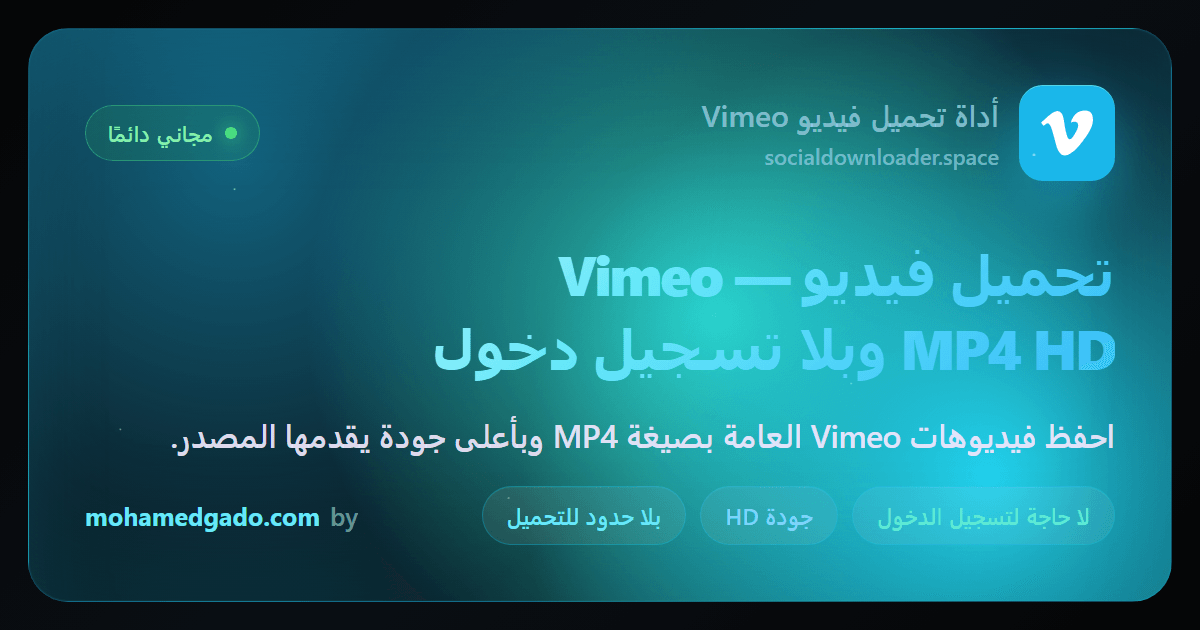
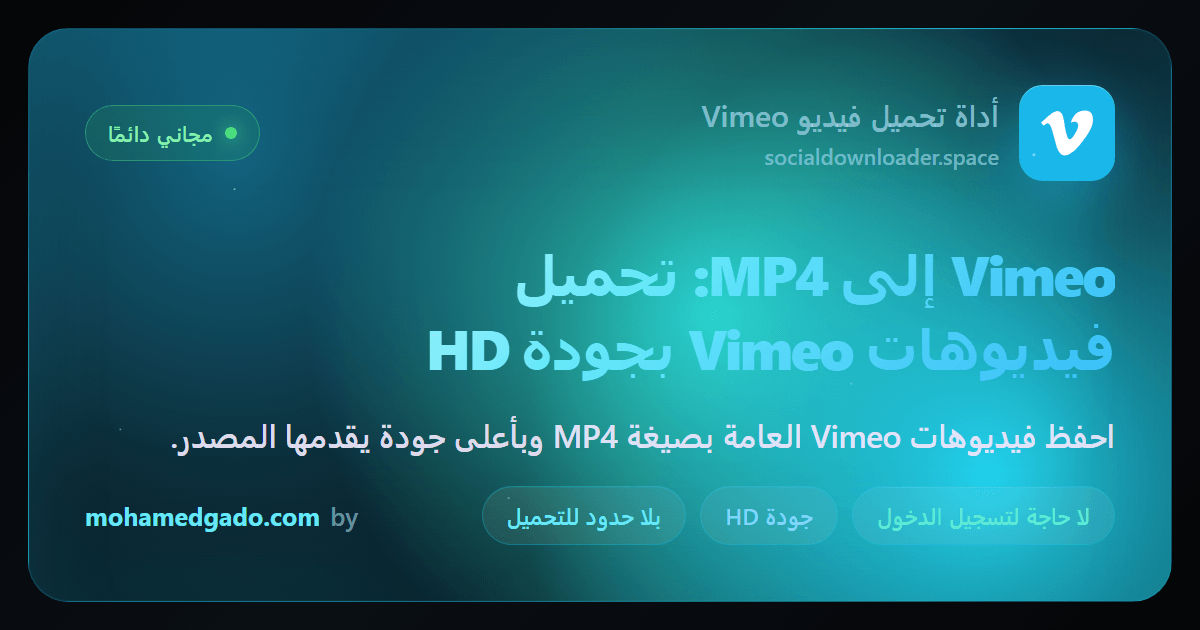
fix(ux): bigger phone tap targets, top-aligned feature cards, template tokens as code; seo: Vimeo-to-MP4 and Spanish Reels intent
- Format/Quality/"Get it as" pills and the Paste chip are taller on phones;
  their labels and the history meta text pass contrast.
- Feature card buttons pin content to the top so columns line up.
- {date}-style filename tokens render as LTR code chips on /pro and Support.
- /vimeo-downloader answers "Vimeo link to MP4" in 5 languages, with claims
  matching the extractor; /es/facebook-downloader leads with "descargar reels".

Changed region(s): [[0.3392, 0.5127, 0.9558, 0.6032], [0.4317, 0.3921, 0.925, 0.4825]]

diff --git a/src/components/DownloaderApp.tsx b/src/components/DownloaderApp.tsx
@@ -2803,7 +2803,7 @@ export function DownloaderApp() {
               onClick={handlePaste}
               aria-label={t('pasteAria')}
               aria-busy={pasting}
-              className={`card-hover absolute right-1.5 flex items-center gap-1 rounded-lg border px-2.5 py-1.5 text-xs font-medium hover:text-white active:scale-95 ${pasting ? 'border-cyan-400/40 bg-cyan-400/10 text-white' : 'border-white/10 bg-white/[0.06] text-white/70'}`}
+              className={`card-hover absolute right-1.5 flex items-center gap-1 rounded-lg border px-3 py-2 text-xs font-medium hover:text-white active:scale-95 md:px-2.5 md:py-1.5 ${pasting ? 'border-cyan-400/40 bg-cyan-400/10 text-white' : 'border-white/10 bg-white/[0.06] text-white/70'}`}
             >
               {/* Same box either way, so the swap cannot nudge the field. */}
               {pasting ? (
@@ -2923,7 +2923,7 @@ export function DownloaderApp() {
           in audio mode. */}
       <div className='mt-3 flex flex-wrap items-center justify-center gap-x-4 gap-y-2 text-xs'>
         <div className='flex items-center gap-2'>
-          <span className='text-white/50'>{t('format')}</span>
+          <span className='text-white/65'>{t('format')}</span>
           <div
             role='group'
             aria-label={t('formatAria')}
@@ -2935,7 +2935,7 @@ export function DownloaderApp() {
                 type='button'
                 onClick={() => pressChip(format === f, () => changeFormat(f))}
                 aria-pressed={format === f}
-                className={`rounded-full px-3 py-1 font-medium transition-colors ${
+                className={`rounded-full px-3.5 py-1.5 font-medium transition-colors md:px-3 md:py-1 ${
                   format === f
                     ? 'bg-cyan-400/90 text-[#04171b]'
                     : 'text-white/55 hover:text-white'
@@ -2950,7 +2950,7 @@ export function DownloaderApp() {
         {format === 'video' && (
           <div className='flex flex-col gap-1'>
             <div className='flex items-center gap-2'>
-              <span className='text-white/50'>{t('quality')}</span>
+              <span className='text-white/65'>{t('quality')}</span>
               <div
                 role='group'
                 aria-label={t('qualityAria')}
@@ -2962,7 +2962,7 @@ export function DownloaderApp() {
                     type='button'
                     onClick={() => pressChip(quality === q, () => changeQuality(q))}
                     aria-pressed={quality === q}
-                    className={`rounded-full px-3 py-1 font-medium transition-colors ${
+                    className={`rounded-full px-3.5 py-1.5 font-medium transition-colors md:px-3 md:py-1 ${
                       quality === q
                         ? 'bg-cyan-400/90 text-[#04171b]'
                         : 'text-white/55 hover:text-white'
@@ -3156,7 +3156,7 @@ export function DownloaderApp() {
                     <span className='block truncate text-xs text-white/80'>
                       {h.title}
                     </span>
-                    <span className='block truncate text-[10px] text-white/50'>
+                    <span className='block truncate text-[11px] text-white/60'>
                       {h.author ||
                         (h.platform ? PLATFORM_DISPLAY[h.platform] : '') ||
                         t('savedLink')}
@@ -3525,7 +3525,7 @@ export function DownloaderApp() {
                   // Wraps as a whole: in Arabic at 360px the label and "Data
                   // saver" each broke onto two lines inside the row.
                   <div className='flex flex-wrap items-center justify-center gap-x-2 gap-y-1.5 text-xs'>
-                    <span className='whitespace-nowrap text-white/50'>{t('getItAs')}</span>
+                    <span className='whitespace-nowrap text-white/65'>{t('getItAs')}</span>
                     <div
                       role='group'
                       aria-label={t('getItAsAria')}
@@ -3541,7 +3541,7 @@ export function DownloaderApp() {
                             onClick={o.onPick}
                             disabled={repicking !== null}
                             aria-pressed={isActive}
-                            className={`flex items-center gap-1 whitespace-nowrap rounded-full px-3 py-1 font-medium transition-colors disabled:cursor-not-allowed ${
+                            className={`flex items-center gap-1 whitespace-nowrap rounded-full px-3.5 py-1.5 font-medium transition-colors disabled:cursor-not-allowed md:px-3 md:py-1 ${
                               isActive
                                 ? 'bg-cyan-400/90 text-[#04171b]'
                                 : 'text-white/55 hover:text-white disabled:opacity-50'

diff --git a/src/lib/platforms.ts b/src/lib/platforms.ts
@@ -1004,14 +1004,14 @@ export const platforms: Platform[] = [
     slug: 'vimeo-downloader',
     name: 'Vimeo',
     brandLabel: 'Vimeo video downloader',
-    metaTitle: 'Vimeo to MP4 Downloader — Save HD Vimeo Videos, No Login',
+    metaTitle: 'Vimeo to MP4 Downloader — Vimeo Link to HD MP4',
     metaDescription:
-      'Download public Vimeo videos in HD as MP4. Paste a vimeo.com link and save the progressive video file instantly — free, no login, no app install.',
-    h1: 'Vimeo Video Downloader — HD MP4, No Login',
+      'Turn a public Vimeo link into an MP4 file. Paste the vimeo.com link, pick HD or Data saver and save the video — free, no login, nothing to install.',
+    h1: 'Vimeo to MP4 Downloader — Download Vimeo Videos in HD',
     tagline:
       'Save public Vimeo videos as MP4 in the highest quality the source offers.',
     intro:
-      'Paste any public vimeo.com/… link and the tool resolves the video through Vimeo’s own player configuration, returning a direct progressive MP4 you can preview and download. No Vimeo login, no extension, nothing installed. Password-protected, private, and domain-restricted videos can’t be fetched.',
+      'Paste a public vimeo.com link and get the video as an MP4 you can preview and save. The tool reads Vimeo’s own player configuration and returns the direct progressive MP4, in the best rendition the video offers (commonly up to 1080p). No Vimeo login, no extension, nothing installed. Private, password-protected and domain-restricted videos can’t be fetched, and neither can the few videos Vimeo only streams.',
     steps: [
       {
         name: 'Copy the Vimeo link',
@@ -1023,7 +1023,7 @@ export const platforms: Platform[] = [
       },
       {
         name: 'Pick quality or format',
-        text: 'Check the preview, then pick the quality you want.',
+        text: 'Check the preview, then pick HD for the highest MP4 rendition or Data saver for a smaller file.',
       },
       {
         name: 'Save the file',
@@ -1062,16 +1062,16 @@ export const platforms: Platform[] = [
     ],
     faqs: [
       {
+        q: 'How do I turn a Vimeo link into an MP4?',
+        a: 'Paste the vimeo.com link above, check the preview, choose HD or Data saver and save. There is no conversion step: Vimeo publishes a ready-made MP4 for most public videos and the tool downloads that file. If a video has none, it can only be played, not saved.',
+      },
+      {
         q: 'Can I download any Vimeo video?',
         a: 'Public videos that expose a progressive (non-DASH) MP4 can be downloaded. Password-protected, private, and domain-locked videos can’t be fetched.',
       },
       {
         q: 'What quality do I get?',
         a: 'The highest progressive rendition the video offers — often up to 1080p. Use the Data saver option for a smaller file.',
-      },
-      {
-        q: 'Do I need a Vimeo account?',
-        a: 'No. Only publicly viewable videos are accessed — no login, no extension, no install.',
       },
       {
         q: 'Why does a Vimeo video only stream and not download?',

diff --git a/src/components/InfoPages.tsx b/src/components/InfoPages.tsx
@@ -1,4 +1,5 @@
 import Link from '@/components/IntentLink'
+import { TemplateText } from '@/components/TemplateText'
 import { AccountPanel } from '@/components/AccountPanel'
 import { Rich } from '@/components/Rich'
 import { SiteFooter } from '@/components/SiteFooter'
@@ -290,7 +291,9 @@ export function ProPage({ locale = 'en' }: { locale?: Locale }) {
                   <CheckIcon className='mt-0.5 h-4 w-4 shrink-0 text-cyan-300' aria-hidden />
                   <div>
                     <p className='text-sm font-semibold text-white'>{benefit.title}</p>
-                    <p className='mt-1 text-sm leading-relaxed text-white/60'>{benefit.body}</p>
+                    <p className='mt-1 text-sm leading-relaxed text-white/60'>
+                      <TemplateText text={benefit.body} />
+                    </p>
                   </div>
                 </div>
               </li>

diff --git a/src/lib/templateTokens.test.ts b/src/lib/templateTokens.test.ts
@@ -1,0 +1,18 @@
+import { describe, expect, it } from 'vitest'
+import { splitTemplateTokens } from './templateTokens'
+
+describe('splitTemplateTokens', () => {
+  it('marks only {word} tokens', () => {
+    expect(splitTemplateTokens('Set it — {date}, {title} — once')).toEqual([
+      { token: false, text: 'Set it — ' },
+      { token: true, text: '{date}' },
+      { token: false, text: ', ' },
+      { token: true, text: '{title}' },
+      { token: false, text: ' — once' },
+    ])
+  })
+
+  it('leaves copy with no tokens as one plain part', () => {
+    expect(splitTemplateTokens('No tokens {here too')).toEqual([{ token: false, text: 'No tokens {here too' }])
+  })
+})

diff --git a/src/components/SupportPanel.tsx b/src/components/SupportPanel.tsx
@@ -1,4 +1,5 @@
 import Link from '@/components/IntentLink'
+import { TemplateText } from '@/components/TemplateText'
 import { HiddenForPro } from '@/components/HiddenForPro'
 import { CheckIcon, MailIcon } from '@/components/icons'
 import { Surface } from '@/components/Surface'
@@ -108,7 +109,7 @@ export function SupportPanel({
             <CheckIcon className='mt-0.5 h-4 w-4 shrink-0 text-cyan-300' />
             <span className='text-sm text-white/75'>
               <strong className='font-semibold text-white'>{benefit.title}.</strong>{' '}
-              {benefit.body}
+              <TemplateText text={benefit.body} />
             </span>
           </li>
         ))}

diff --git a/src/lib/templateTokens.ts b/src/lib/templateTokens.ts
@@ -1,0 +1,12 @@
+/**
+ * Split copy into plain text and filename-template tokens like `{date}`, so the
+ * tokens render as code. Shown raw, "{date}, {platform}" in a feature bullet
+ * read as a templating bug (UX review, 14 Nov), and in Arabic the braces
+ * scattered through right-to-left text.
+ */
+export function splitTemplateTokens(text: string): Array<{ token: boolean; text: string }> {
+  return text
+    .split(/(\{[a-z]+\})/)
+    .filter(Boolean)
+    .map((part) => ({ token: /^\{[a-z]+\}$/.test(part), text: part }))
+}

diff --git a/src/components/TemplateText.tsx b/src/components/TemplateText.tsx
@@ -1,0 +1,18 @@
+import { splitTemplateTokens } from '@/lib/templateTokens'
+
+/** Copy whose `{token}`s render as small left-to-right code chips. */
+export function TemplateText({ text }: { text: string }) {
+  return splitTemplateTokens(text).map((part, i) =>
+    part.token ? (
+      <code
+        key={i}
+        dir='ltr'
+        className='rounded bg-white/[0.08] px-1 py-px font-mono text-[0.85em] text-cyan-100/90'
+      >
+        {part.text}
+      </code>
+    ) : (
+      part.text
+    ),
+  )
+}

diff --git a/src/components/FeatureCardButton.tsx b/src/components/FeatureCardButton.tsx
@@ -27,7 +27,7 @@ export function FeatureCardButton({ id, children }: { id: FeatureCardId; childre
       type='button'
       interaction='lift'
       onClick={onClick}
-      className='group p-5 text-start'
+      className='group flex h-full flex-col items-start p-5 text-start'
     >
       {children}
     </Surface>

diff --git a/lessons/2026-11-14-tap-targets-tokens-vimeo-intent.md b/lessons/2026-11-14-tap-targets-tokens-vimeo-intent.md
@@ -1,0 +1,30 @@
+# Tap targets, template tokens, Vimeo-to-MP4 and Spanish Reels intent
+
+## What
+- Phone tap targets: Format/Quality/"Get it as" pills and the Paste chip grew on
+  phones only (desktop unchanged); their row labels went from white/50 to /65.
+  History meta text from 10px white/50 to 11px white/60.
+- Feature cards: content pinned to the top (`flex flex-col items-start h-full`).
+- Pro "File names your way" copy renders `{date}`-style tokens as LTR code chips
+  (`splitTemplateTokens` + `TemplateText`, used by InfoPages and SupportPanel).
+- SEO from Search Console: /vimeo-downloader targets "vimeo to mp4" / "vimeo link
+  to mp4" (title, H1, description, intro, a new first FAQ, in 5 languages);
+  /es/facebook-downloader leads with "descargar reels de Facebook … online".
+
+## Mistakes
+- Turning the feature cards into `<button>` earlier today vertically centred their
+  content, because browsers centre a button's children. Two columns with different
+  copy lengths stopped lining up. The screenshot pass after that change was for
+  overflow only, so it missed this; a fresh UX critique of the screenshots caught it.
+- Calling the 24 Nov Search Console re-check a scheduled cloud routine: a cloud run can't
+  open the owner's Chrome, the only place GSC is readable, so it became a paste-in prompt.
+
+## What worked
+- A read-only critic subagent over existing screenshots, in parallel with an SEO
+  editor confined to copy files: no conflicts, one combined verify.
+- Making the SEO agent cite file:line for every new claim (Vimeo progressive MP4
+  at downloader.ts:1896-1950) kept the copy honest.
+
+## Rules
+- Swapping a div for a `<button>` needs explicit `flex flex-col items-start`; check alignment, not just overflow.
+- Template syntax shown to users is code, rendered LTR, never raw braces in prose.

diff --git a/lessons/README.md b/lessons/README.md
@@ -147,3 +147,4 @@ the index for exactly that.
 | 2026-11-14 | [Honest failure codes + hero points](2026-11-14-honest-failure-codes-and-hero-points.md) | A message listing guesses is inconclusive, not the first guess; reassurance copy never wears the shape of a control. |
 | 2026-11-14 | [Honest banner, feature cards, share image](2026-11-14-honest-banner-feature-cards-seo.md) | A banner that can't be fixed by retrying must stop offering the retry; a card that lifts must act on tap. |
 | 2026-11-14 | [Paste, batch retry, scroll, SEO floor](2026-11-14-paste-batch-scroll-seo-floor.md) | Scroll from an effect on the committed state, never a guessed timer; test floors equal the target range. |
+| 2026-11-14 | [Tap targets, tokens, Vimeo intent](2026-11-14-tap-targets-tokens-vimeo-intent.md) | A div turned button centres its content; template tokens render as LTR code. |
